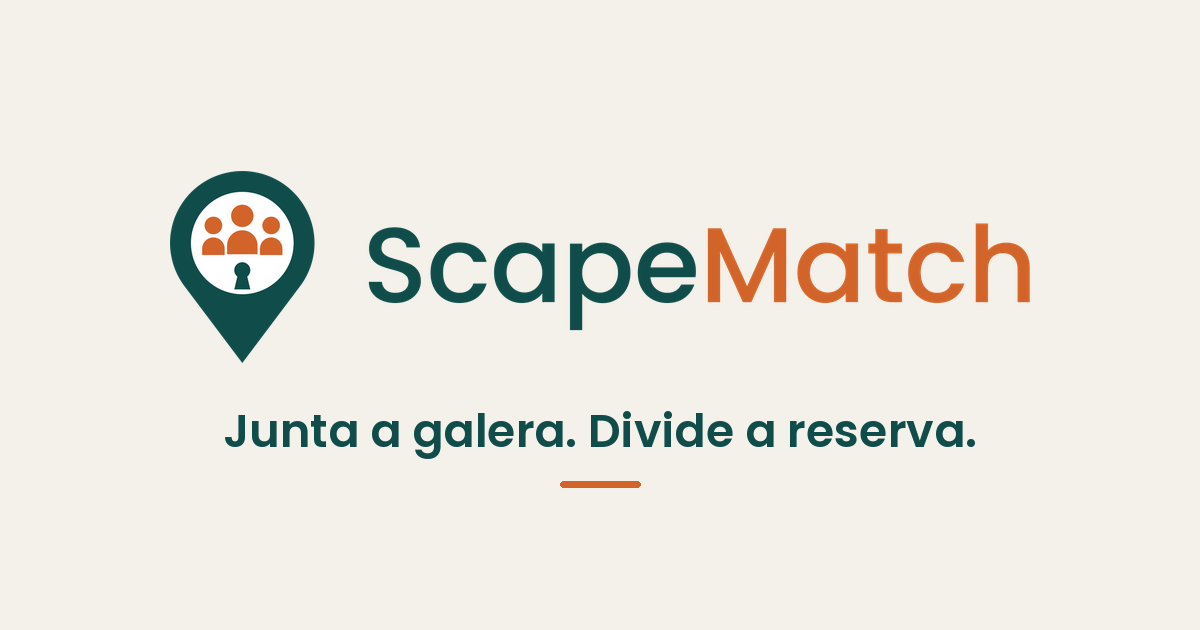
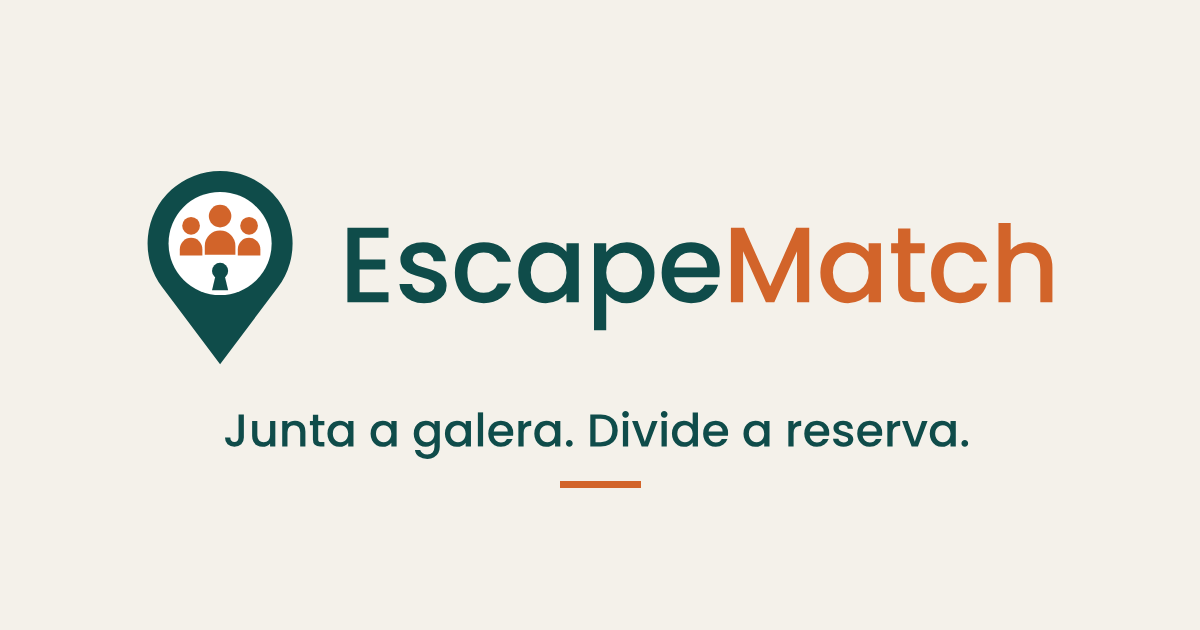
Landing EscapeMatch (sync de apps/landing da main, escapematch.com.br)

Changed region(s): [[0.1233, 0.2714, 0.8942, 0.573], [0.185, 0.6333, 0.8325, 0.7238]]

diff --git a/index.html b/index.html
@@ -2,27 +2,30 @@
 <html lang="pt-BR">
 <head>
   <meta charset="utf-8">
+  <meta name="referrer" content="strict-origin-when-cross-origin">
+  <meta http-equiv="Content-Security-Policy" content="default-src 'self'; base-uri 'self'; object-src 'none'; script-src 'self'; style-src 'self'; img-src 'self'; font-src 'self'; connect-src 'self'; worker-src 'none'; frame-src 'none'; manifest-src 'self'; form-action 'self'">
+  <script src="frame-guard.js"></script>
   <meta name="viewport" content="width=device-width, initial-scale=1">
-  <title>ScapeMatch — Junta a galera e divide a reserva</title>
+  <title>EscapeMatch — Junta a galera e divide a reserva</title>
   <meta name="description" content="Monte um grupo de escape room, divida a reserva e pague a sua parte. A cobrança só acontece quando o grupo fecha. Casas parceiras enchem horários vazios.">
   <meta name="theme-color" content="#0F4C4A">
-  <!-- canonical/og apontam para o domínio próprio (scapematch-site). CTAs abrem os apps nos subdomínios. -->
-  <link rel="canonical" href="https://scapematch.com.br/">
+  <!-- canonical/og apontam para https://escapematch.com.br/. CTAs abrem os apps nos subdomínios. -->
+  <link rel="canonical" href="https://escapematch.com.br/">
   <meta property="og:type" content="website">
   <meta property="og:locale" content="pt_BR">
-  <meta property="og:site_name" content="ScapeMatch">
-  <meta property="og:title" content="ScapeMatch — Junta a galera e divide a reserva">
+  <meta property="og:site_name" content="EscapeMatch">
+  <meta property="og:title" content="EscapeMatch — Junta a galera e divide a reserva">
   <meta property="og:description" content="Cada pessoa paga a sua parte. A cobrança só acontece quando o grupo fecha.">
-  <meta property="og:url" content="https://scapematch.com.br/">
-  <meta property="og:image" content="https://scapematch.com.br/assets/og.png">
+  <meta property="og:url" content="https://escapematch.com.br/">
+  <meta property="og:image" content="https://escapematch.com.br/assets/og.png">
   <meta property="og:image:type" content="image/png">
   <meta property="og:image:width" content="1200">
   <meta property="og:image:height" content="630">
-  <meta property="og:image:alt" content="Logo do ScapeMatch: pin teal com três pessoas em cobre e o nome ScapeMatch.">
+  <meta property="og:image:alt" content="Logo do EscapeMatch: pin teal com três pessoas em cobre e o nome EscapeMatch.">
   <meta name="twitter:card" content="summary_large_image">
-  <meta name="twitter:title" content="ScapeMatch — Junta a galera e divide a reserva">
+  <meta name="twitter:title" content="EscapeMatch — Junta a galera e divide a reserva">
   <meta name="twitter:description" content="Cada pessoa paga a sua parte. A cobrança só acontece quando o grupo fecha.">
-  <meta name="twitter:image" content="https://scapematch.com.br/assets/og.png">
+  <meta name="twitter:image" content="https://escapematch.com.br/assets/og.png">
   <link rel="icon" href="assets/favicon.svg" type="image/svg+xml">
   <link rel="icon" href="assets/favicon-32.png" type="image/png" sizes="32x32">
   <link rel="apple-touch-icon" href="assets/apple-touch.png">
@@ -32,9 +35,9 @@
   <a class="skip" href="#conteudo">Ir para o conteúdo</a>
   <header class="site-header">
     <div class="wrap header-bar">
-      <a class="logo" href="#topo" aria-label="ScapeMatch">
+      <a class="logo" href="#topo" aria-label="EscapeMatch">
         <img src="assets/logo-simbolo.svg" alt="" width="31" height="40">
-        <span class="wordmark" aria-hidden="true"><span class="scape">Scape</span><span class="match">Match</span></span>
+        <span class="wordmark" aria-hidden="true"><span class="scape">Escape</span><span class="match">Match</span></span>
       </a>
       <nav class="nav" aria-label="Seções">
         <a href="#como-funciona">Como funciona</a>
@@ -42,7 +45,7 @@
         <a href="#perguntas">Perguntas</a>
         <a href="termos.html">Termos</a>
       </nav>
-      <a class="btn btn-pin header-cta" href="https://app.scapematch.com.br/" target="_blank" rel="noopener noreferrer">Quero jogar</a>
+      <a class="btn btn-pin header-cta" href="https://app.escapematch.com.br/" target="_blank" rel="noopener noreferrer">Quero jogar</a>
     </div>
   </header>
 
@@ -54,13 +57,13 @@
           <h1>Junta a galera.<br>Divide a reserva.</h1>
           <p class="lead">Você entra num grupo, cada pessoa paga a sua parte, e a cobrança só acontece quando o grupo fecha.</p>
           <div class="hero-actions">
-            <a class="btn btn-pin" href="https://app.scapematch.com.br/" target="_blank" rel="noopener noreferrer">Quero jogar</a>
+            <a class="btn btn-pin" href="https://app.escapematch.com.br/" target="_blank" rel="noopener noreferrer">Quero jogar</a>
             <a class="btn btn-line" href="#casas">Tenho uma casa</a>
           </div>
         </div>
-        <aside class="poster" aria-label="A promessa do ScapeMatch">
+        <aside class="poster" aria-label="A promessa do EscapeMatch">
           <img src="assets/logo-simbolo.svg" alt="" width="92" height="120">
-          <p class="wordmark poster-name" aria-hidden="true"><span class="scape">Scape</span><span class="match">Match</span></p>
+          <p class="wordmark poster-name" aria-hidden="true"><span class="scape">Escape</span><span class="match">Match</span></p>
           <p class="poster-line">Cada um paga a sua parte.</p>
         </aside>
       </div>
@@ -94,7 +97,7 @@
       <div class="wrap">
         <p class="kicker kicker-light">Para quem tem uma casa</p>
         <h2>Enche o horário que ficaria vazio.</h2>
-        <p class="lead lead-light">O ScapeMatch Parceiro é um app separado, da casa. Agenda de salas e horários, reservas, saldo e extrato ficam nele. O app de quem joga continua em outro endereço.</p>
+        <p class="lead lead-light">O EscapeMatch Parceiro é um app separado, da casa. Agenda de salas e horários, reservas, saldo e extrato ficam nele. O app de quem joga continua em outro endereço.</p>
         <ul class="benefits">
           <li>
             <h3>Mais salas cheias nos horários vazios</h3>
@@ -110,11 +113,12 @@
           </li>
           <li>
             <h3>Comissão só das reservas do app</h3>
-            <p>A comissão incide só sobre reservas feitas pelo ScapeMatch. O que a casa vende por fora fica fora.</p>
+            <p>A comissão incide só sobre reservas feitas pelo EscapeMatch. O que a casa vende por fora fica fora.</p>
           </li>
         </ul>
         <div class="casa-actions">
-          <a class="btn btn-cream" href="https://parceiro.scapematch.com.br/" target="_blank" rel="noopener noreferrer">Acessar o ScapeMatch Parceiro</a>
+          <a class="btn btn-cream" href="https://parceiro.escapematch.com.br/" target="_blank" rel="noopener noreferrer">Acessar o EscapeMatch Parceiro</a>
+          <a class="text-link" href="https://parceiro-demo.escapematch.com.br/" target="_blank" rel="noopener noreferrer">Ver a demonstração (login a / b)</a>
           <a class="text-link" href="#contato">O contato ainda é um placeholder</a>
         </div>
       </div>
@@ -143,7 +147,7 @@
           </details>
           <details>
             <summary>A casa usa o mesmo app de quem joga?</summary>
-            <p>Não. A casa usa o ScapeMatch Parceiro, com agenda, reservas, saldo e extrato.</p>
+            <p>Não. A casa usa o EscapeMatch Parceiro, com agenda, reservas, saldo e extrato.</p>
           </details>
           <details>
             <summary>A comissão vale para toda a casa?</summary>
@@ -157,9 +161,9 @@
   <footer class="site-footer" id="contato">
     <div class="wrap footer-grid">
       <div>
-        <a class="logo" href="#topo" aria-label="ScapeMatch">
+        <a class="logo" href="#topo" aria-label="EscapeMatch">
           <img src="assets/logo-simbolo.svg" alt="" width="31" height="40">
-          <span class="wordmark" aria-hidden="true"><span class="scape">Scape</span><span class="match">Match</span></span>
+          <span class="wordmark" aria-hidden="true"><span class="scape">Escape</span><span class="match">Match</span></span>
         </a>
         <p class="footer-note">Monta o grupo e divide a reserva. A cobrança só acontece quando o grupo fecha.</p>
       </div>
@@ -171,8 +175,9 @@
         <p class="hint">Troque este bloco por um canal real antes de divulgar a página.</p>
       </div>
       <ul class="footer-links">
-        <li><a href="https://app.scapematch.com.br/" target="_blank" rel="noopener noreferrer">App do jogador</a></li>
-        <li><a href="https://parceiro.scapematch.com.br/" target="_blank" rel="noopener noreferrer">ScapeMatch Parceiro</a></li>
+        <li><a href="https://app.escapematch.com.br/" target="_blank" rel="noopener noreferrer">App do jogador</a></li>
+        <li><a href="https://parceiro.escapematch.com.br/" target="_blank" rel="noopener noreferrer">EscapeMatch Parceiro</a></li>
+        <li><a href="https://parceiro-demo.escapematch.com.br/" target="_blank" rel="noopener noreferrer">Demonstração do Parceiro</a></li>
         <li><a href="termos.html">Termos de uso</a></li>
         <li><a href="privacidade.html">Privacidade</a></li>
         <li><a href="cancelamento.html">Cancelamento e reembolso</a></li>

diff --git a/termos-parceiro.html b/termos-parceiro.html
@@ -2,9 +2,12 @@
 <html lang="pt-BR">
 <head>
   <meta charset="utf-8">
+  <meta name="referrer" content="strict-origin-when-cross-origin">
+  <meta http-equiv="Content-Security-Policy" content="default-src 'self'; base-uri 'self'; object-src 'none'; script-src 'self'; style-src 'self'; img-src 'self'; font-src 'self'; connect-src 'self'; worker-src 'none'; frame-src 'none'; manifest-src 'self'; form-action 'self'">
+  <script src="frame-guard.js"></script>
   <meta name="viewport" content="width=device-width, initial-scale=1">
-  <title>Termos do Parceiro — ScapeMatch</title>
-  <meta name="description" content="Rascunho dos termos da casa parceira. O ScapeMatch atua como intermediadora.">
+  <title>Termos do Parceiro — EscapeMatch</title>
+  <meta name="description" content="Rascunho dos termos da casa parceira. O EscapeMatch atua como intermediadora.">
   <link rel="icon" href="assets/favicon.svg" type="image/svg+xml">
   <link rel="stylesheet" href="styles.css">
 </head>
@@ -12,9 +15,9 @@
   <a class="skip" href="#conteudo">Ir para o conteúdo</a>
   <header class="site-header">
     <div class="wrap header-bar">
-      <a class="logo" href="index.html" aria-label="ScapeMatch">
+      <a class="logo" href="index.html" aria-label="EscapeMatch">
         <img src="assets/logo-simbolo.svg" alt="" width="31" height="40">
-        <span class="wordmark" aria-hidden="true"><span class="scape">Scape</span><span class="match">Match</span></span>
+        <span class="wordmark" aria-hidden="true"><span class="scape">Escape</span><span class="match">Match</span></span>
       </a>
       <nav class="nav" aria-label="Seções">
         <a href="index.html">Início</a>
@@ -27,10 +30,10 @@
     <article class="wrap narrow legal-body">
       <p class="draft">A revisar juridicamente. Rascunho para revisão de advogado. Este texto ainda não é um contrato.</p>
       <h1>Termos do Parceiro</h1>
-      <p>O ScapeMatch é uma intermediadora. A casa realiza a sessão. O ScapeMatch junta os jogadores, divide a reserva e cobra a parte de cada pessoa quando o grupo fecha.</p>
-      <p>Comissão. A comissão incide só sobre as reservas feitas pelo ScapeMatch. Ela fica fotografada na reserva. O que a casa vende por fora não entra nessa conta. O extrato mostra bruto, comissão e líquido separados.</p>
-      <p>Responsabilidade pela sessão. A casa responde pela sessão: segurança, equipe, horário e o que acontece dentro do espaço. O ScapeMatch não opera a sala.</p>
-      <p>Responsabilidade pela nota. Casa com CNPJ ou MEI, e com inscrição municipal, código de serviço e alíquota de ISS, emite a NFS-e do serviço para o jogador. Casa com CPF recebe o valor e fica sem emissão de nota. A ScapeMatch emite apenas a NFS-e da comissão, contra a casa.</p>
+      <p>O EscapeMatch é uma intermediadora. A casa realiza a sessão. O EscapeMatch junta os jogadores, divide a reserva e cobra a parte de cada pessoa quando o grupo fecha.</p>
+      <p>Comissão. A comissão incide só sobre as reservas feitas pelo EscapeMatch. Ela fica fotografada na reserva. O que a casa vende por fora não entra nessa conta. O extrato mostra bruto, comissão e líquido separados.</p>
+      <p>Responsabilidade pela sessão. A casa responde pela sessão: segurança, equipe, horário e o que acontece dentro do espaço. O EscapeMatch não opera a sala.</p>
+      <p>Responsabilidade pela nota. Casa com CNPJ ou MEI, e com inscrição municipal, código de serviço e alíquota de ISS, emite a NFS-e do serviço para o jogador. Casa com CPF recebe o valor e fica sem emissão de nota. A EscapeMatch emite apenas a NFS-e da comissão, contra a casa.</p>
       <p>Pagamento. O Pix pago é estornado se o grupo não fechar. A autorização do cartão não é capturada se o grupo não fechar.</p>
       <p>Ao cadastrar a casa você confirma que leu este rascunho, a política de privacidade e a política de cancelamento e reembolso. O aceite fica registrado com a versão do texto e a data.</p>
     </article>

diff --git a/termos.html b/termos.html
@@ -2,9 +2,12 @@
 <html lang="pt-BR">
 <head>
   <meta charset="utf-8">
+  <meta name="referrer" content="strict-origin-when-cross-origin">
+  <meta http-equiv="Content-Security-Policy" content="default-src 'self'; base-uri 'self'; object-src 'none'; script-src 'self'; style-src 'self'; img-src 'self'; font-src 'self'; connect-src 'self'; worker-src 'none'; frame-src 'none'; manifest-src 'self'; form-action 'self'">
+  <script src="frame-guard.js"></script>
   <meta name="viewport" content="width=device-width, initial-scale=1">
-  <title>Termos de uso — ScapeMatch</title>
-  <meta name="description" content="Rascunho dos termos de uso do jogador no ScapeMatch.">
+  <title>Termos de uso — EscapeMatch</title>
+  <meta name="description" content="Rascunho dos termos de uso do jogador no EscapeMatch.">
   <link rel="icon" href="assets/favicon.svg" type="image/svg+xml">
   <link rel="stylesheet" href="styles.css">
 </head>
@@ -12,9 +15,9 @@
   <a class="skip" href="#conteudo">Ir para o conteúdo</a>
   <header class="site-header">
     <div class="wrap header-bar">
-      <a class="logo" href="index.html" aria-label="ScapeMatch">
+      <a class="logo" href="index.html" aria-label="EscapeMatch">
         <img src="assets/logo-simbolo.svg" alt="" width="31" height="40">
-        <span class="wordmark" aria-hidden="true"><span class="scape">Scape</span><span class="match">Match</span></span>
+        <span class="wordmark" aria-hidden="true"><span class="scape">Escape</span><span class="match">Match</span></span>
       </a>
       <nav class="nav" aria-label="Seções">
         <a href="index.html">Início</a>
@@ -27,11 +30,11 @@
     <article class="wrap narrow legal-body">
       <p class="draft">A revisar juridicamente. Rascunho para revisão de advogado. Este texto ainda não é um contrato.</p>
       <h1>Termos de uso</h1>
-      <p>O ScapeMatch ajuda você a achar pessoas para completar um grupo e dividir a reserva de uma sessão presencial, começando por escape room. A casa é quem realiza a sessão. O ScapeMatch intermedia a formação do grupo e a cobrança da sua parte.</p>
+      <p>O EscapeMatch ajuda você a achar pessoas para completar um grupo e dividir a reserva de uma sessão presencial, começando por escape room. A casa é quem realiza a sessão. O EscapeMatch intermedia a formação do grupo e a cobrança da sua parte.</p>
       <p>Ao criar a conta você confirma que leu este rascunho, a política de privacidade e a política de cancelamento e reembolso. O aceite fica registrado com a versão do texto e a data.</p>
       <p>Menores de 18 anos não criam conta. Menores só jogam acompanhados de um responsável, em regra provisória.</p>
       <p>Você paga só a sua parte. A cobrança é confirmada quando o grupo fecha. Se o grupo não fechar, o Pix pago é estornado e a autorização do cartão não é capturada.</p>
-      <p>A nota fiscal do serviço, quando a casa emite, é da casa para você. A comissão da intermediação é uma nota da ScapeMatch para a casa, e não é a sua nota.</p>
+      <p>A nota fiscal do serviço, quando a casa emite, é da casa para você. A comissão da intermediação é uma nota da EscapeMatch para a casa, e não é a sua nota.</p>
     </article>
   </main>
 </body>

diff --git a/privacidade.html b/privacidade.html
@@ -2,9 +2,12 @@
 <html lang="pt-BR">
 <head>
   <meta charset="utf-8">
+  <meta name="referrer" content="strict-origin-when-cross-origin">
+  <meta http-equiv="Content-Security-Policy" content="default-src 'self'; base-uri 'self'; object-src 'none'; script-src 'self'; style-src 'self'; img-src 'self'; font-src 'self'; connect-src 'self'; worker-src 'none'; frame-src 'none'; manifest-src 'self'; form-action 'self'">
+  <script src="frame-guard.js"></script>
   <meta name="viewport" content="width=device-width, initial-scale=1">
-  <title>Política de privacidade — ScapeMatch</title>
-  <meta name="description" content="Rascunho da política de privacidade do ScapeMatch, alinhado à LGPD.">
+  <title>Política de privacidade — EscapeMatch</title>
+  <meta name="description" content="Rascunho da política de privacidade do EscapeMatch, alinhado à LGPD.">
   <link rel="icon" href="assets/favicon.svg" type="image/svg+xml">
   <link rel="stylesheet" href="styles.css">
 </head>
@@ -12,9 +15,9 @@
   <a class="skip" href="#conteudo">Ir para o conteúdo</a>
   <header class="site-header">
     <div class="wrap header-bar">
-      <a class="logo" href="index.html" aria-label="ScapeMatch">
+      <a class="logo" href="index.html" aria-label="EscapeMatch">
         <img src="assets/logo-simbolo.svg" alt="" width="31" height="40">
-        <span class="wordmark" aria-hidden="true"><span class="scape">Scape</span><span class="match">Match</span></span>
+        <span class="wordmark" aria-hidden="true"><span class="scape">Escape</span><span class="match">Match</span></span>
       </a>
       <nav class="nav" aria-label="Seções">
         <a href="index.html">Início</a>
@@ -27,7 +30,7 @@
     <article class="wrap narrow legal-body">
       <p class="draft">A revisar juridicamente. Rascunho para revisão de advogado. Este texto ainda não é um contrato.</p>
       <h1>Política de privacidade</h1>
-      <p>Este rascunho descreve o tratamento de dados pessoais pelo ScapeMatch, nos termos da Lei 13.709/2018 (LGPD).</p>
+      <p>Este rascunho descreve o tratamento de dados pessoais pelo EscapeMatch, nos termos da Lei 13.709/2018 (LGPD).</p>
       <p>Dados coletados. Do jogador: nome, e-mail, data de nascimento, cidade, participação em grupos e o estado do pagamento da parte. O app não guarda número completo de cartão, validade nem código de segurança. Da casa: nome, CPF ou CNPJ, telefone, endereço e, quando houver, inscrição municipal, código de serviço e alíquota de ISS. Também ficam o aceite dos termos, com versão e data, e os identificadores das notas fiscais.</p>
       <p>Finalidade. Criar a conta, formar o grupo, cobrar a parte quando o grupo fecha, estornar o que a política de cancelamento manda devolver, emitir ou registrar a nota fiscal e cumprir obrigação legal.</p>
       <p>Direitos. Você pode pedir acesso, correção, portabilidade, informação sobre compartilhamento e eliminação dos dados desnecessários, além de revogar um consentimento. Há prazos legais de guarda, como o do documento fiscal.</p>

diff --git a/cancelamento.html b/cancelamento.html
@@ -2,9 +2,12 @@
 <html lang="pt-BR">
 <head>
   <meta charset="utf-8">
+  <meta name="referrer" content="strict-origin-when-cross-origin">
+  <meta http-equiv="Content-Security-Policy" content="default-src 'self'; base-uri 'self'; object-src 'none'; script-src 'self'; style-src 'self'; img-src 'self'; font-src 'self'; connect-src 'self'; worker-src 'none'; frame-src 'none'; manifest-src 'self'; form-action 'self'">
+  <script src="frame-guard.js"></script>
   <meta name="viewport" content="width=device-width, initial-scale=1">
-  <title>Cancelamento e reembolso — ScapeMatch</title>
-  <meta name="description" content="Rascunho da política de cancelamento e reembolso do ScapeMatch.">
+  <title>Cancelamento e reembolso — EscapeMatch</title>
+  <meta name="description" content="Rascunho da política de cancelamento e reembolso do EscapeMatch.">
   <link rel="icon" href="assets/favicon.svg" type="image/svg+xml">
   <link rel="stylesheet" href="styles.css">
 </head>
@@ -12,9 +15,9 @@
   <a class="skip" href="#conteudo">Ir para o conteúdo</a>
   <header class="site-header">
     <div class="wrap header-bar">
-      <a class="logo" href="index.html" aria-label="ScapeMatch">
+      <a class="logo" href="index.html" aria-label="EscapeMatch">
         <img src="assets/logo-simbolo.svg" alt="" width="31" height="40">
-        <span class="wordmark" aria-hidden="true"><span class="scape">Scape</span><span class="match">Match</span></span>
+        <span class="wordmark" aria-hidden="true"><span class="scape">Escape</span><span class="match">Match</span></span>
       </a>
       <nav class="nav" aria-label="Seções">
         <a href="index.html">Início</a>

diff --git a/frame-guard.js b/frame-guard.js
@@ -1,0 +1,10 @@
+// Esconde a landing quando outra origem coloca a página num iframe.
+// O GitHub Pages não envia X-Frame-Options nem frame-ancestors.
+// Sem script a página continua visível: o HTML estático não depende de JS.
+(function () {
+  if (window.top === window.self) return;
+  document.documentElement.setAttribute("hidden", "");
+  try {
+    window.top.location = window.self.location;
+  } catch (e) {}
+})();
